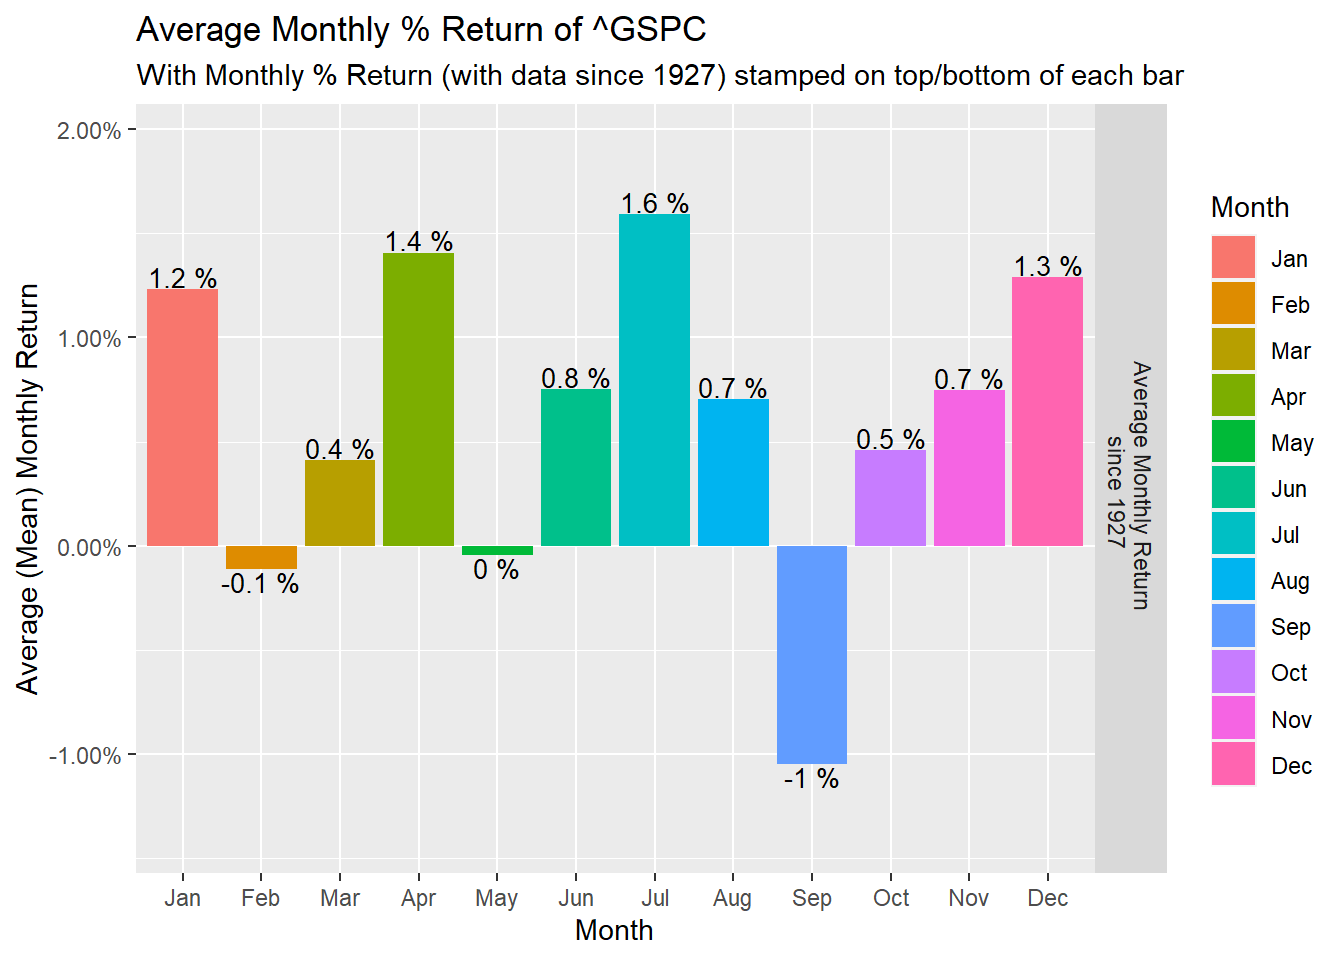
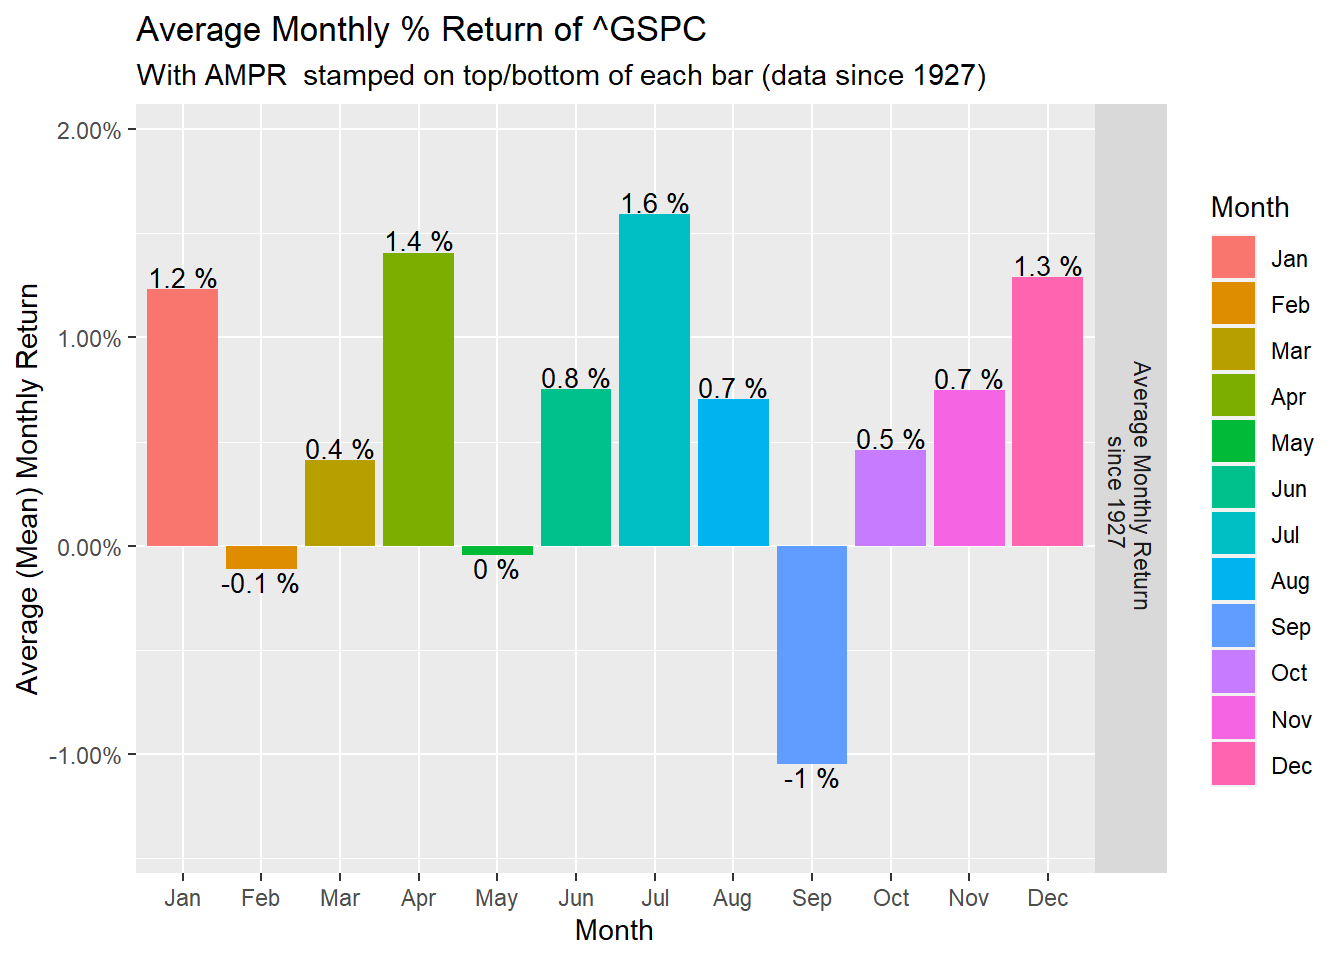
lkjlfferor

Changed region(s): [[0.1562, 0.0625, 0.875, 0.0938]]

diff --git a/content/post/2020-09-20-r-rmarkdown.html b/content/post/2020-09-20-r-rmarkdown.html
@@ -1,5 +1,5 @@
 ---
-title: "Periodic and Average Periodic Returns of Financial Portfolios using not R"
+title: "Periodic and Average Periodic Returns of Financial Portfolios using R"
 author: "Dawit Aberra"
 date: 2020-09-20
 categories: ["R"]
@@ -642,7 +642,7 @@ library(scales)
 g&lt;-ggplot(data=tb[(length(tb$Return)-12+1):length(tb$Return),], aes(x=Month, y=Return)) 
 g&lt;-g+geom_col(aes(fill = Month), position = &quot;dodge&quot;)
 g&lt;-g+facet_grid(rows = vars(Year))
-g&lt;-g+labs(title=paste(&quot;Average Monthly % Return of&quot;, symbolname),subtitle=&quot;With Monthly % Return (with data since 1927) stamped on top/bottom of each bar&quot;)
+g&lt;-g+labs(title=paste(&quot;Average Monthly % Return of&quot;, symbolname),subtitle=&quot;With AMPR  stamped on top/bottom of each bar (data since 1927)&quot;)
 g&lt;-g+geom_text(aes(label = paste(round(Return*100,1), &quot;%&quot;), vjust = ifelse(Return &gt;= 0, -0.1, 1.1)), size=3.5)  
 g&lt;-g+scale_y_continuous(&quot;Average (Mean) Monthly Return&quot;, labels = percent_format(),expand = expansion(mult = c(0.2, 0.2))) 
 g</code></pre>

diff --git a/public/2020/09/20/periodic-and-average-periodic-returns-of-financial-portfolios-using-r/index.html b/public/2020/09/20/periodic-and-average-periodic-returns-of-financial-portfolios-using-r/index.html
@@ -709,7 +709,7 @@ library(scales)
 g&lt;-ggplot(data=tb[(length(tb$Return)-12+1):length(tb$Return),], aes(x=Month, y=Return)) 
 g&lt;-g+geom_col(aes(fill = Month), position = &quot;dodge&quot;)
 g&lt;-g+facet_grid(rows = vars(Year))
-g&lt;-g+labs(title=paste(&quot;Average Monthly % Return of&quot;, symbolname),subtitle=&quot;With Monthly % Return (with data since 1927) stamped on top/bottom of each bar&quot;)
+g&lt;-g+labs(title=paste(&quot;Average Monthly % Return of&quot;, symbolname),subtitle=&quot;With AMPR  stamped on top/bottom of each bar (data since 1927)&quot;)
 g&lt;-g+geom_text(aes(label = paste(round(Return*100,1), &quot;%&quot;), vjust = ifelse(Return &gt;= 0, -0.1, 1.1)), size=3.5)  
 g&lt;-g+scale_y_continuous(&quot;Average (Mean) Monthly Return&quot;, labels = percent_format(),expand = expansion(mult = c(0.2, 0.2))) 
 g</code></pre>

diff --git a/public/categories/r/index.html b/public/categories/r/index.html
@@ -65,7 +65,7 @@
     <h2 class="archive-title">2020</h2>
     
     <article class="archive-item">
-      <a href="/2020/09/20/periodic-and-average-periodic-returns-of-financial-portfolios-using-not-r/" class="archive-item-link">Periodic and Average Periodic Returns of Financial Portfolios using not R</a>
+      <a href="/2020/09/20/periodic-and-average-periodic-returns-of-financial-portfolios-using-r/" class="archive-item-link">Periodic and Average Periodic Returns of Financial Portfolios using R</a>
       <span class="archive-item-date">
         2020-09-20
       </span>

diff --git a/public/index.html b/public/index.html
@@ -68,7 +68,7 @@
     <h2 class="archive-title">2020</h2>
     
     <article class="archive-item">
-      <a href="/2020/09/20/periodic-and-average-periodic-returns-of-financial-portfolios-using-not-r/" class="archive-item-link">Periodic and Average Periodic Returns of Financial Portfolios using not R</a>
+      <a href="/2020/09/20/periodic-and-average-periodic-returns-of-financial-portfolios-using-r/" class="archive-item-link">Periodic and Average Periodic Returns of Financial Portfolios using R</a>
       <span class="archive-item-date">
         2020-09-20
       </span>

diff --git a/public/post/index.html b/public/post/index.html
@@ -65,7 +65,7 @@
     <h2 class="archive-title">2020</h2>
     
     <article class="archive-item">
-      <a href="/2020/09/20/periodic-and-average-periodic-returns-of-financial-portfolios-using-not-r/" class="archive-item-link">Periodic and Average Periodic Returns of Financial Portfolios using not R</a>
+      <a href="/2020/09/20/periodic-and-average-periodic-returns-of-financial-portfolios-using-r/" class="archive-item-link">Periodic and Average Periodic Returns of Financial Portfolios using R</a>
       <span class="archive-item-date">
         2020-09-20
       </span>

diff --git a/public/tags/plot/index.html b/public/tags/plot/index.html
@@ -65,7 +65,7 @@
     <h2 class="archive-title">2020</h2>
     
     <article class="archive-item">
-      <a href="/2020/09/20/periodic-and-average-periodic-returns-of-financial-portfolios-using-not-r/" class="archive-item-link">Periodic and Average Periodic Returns of Financial Portfolios using not R</a>
+      <a href="/2020/09/20/periodic-and-average-periodic-returns-of-financial-portfolios-using-r/" class="archive-item-link">Periodic and Average Periodic Returns of Financial Portfolios using R</a>
       <span class="archive-item-date">
         2020-09-20
       </span>

diff --git a/public/tags/r-markdown/index.html b/public/tags/r-markdown/index.html
@@ -65,7 +65,7 @@
     <h2 class="archive-title">2020</h2>
     
     <article class="archive-item">
-      <a href="/2020/09/20/periodic-and-average-periodic-returns-of-financial-portfolios-using-not-r/" class="archive-item-link">Periodic and Average Periodic Returns of Financial Portfolios using not R</a>
+      <a href="/2020/09/20/periodic-and-average-periodic-returns-of-financial-portfolios-using-r/" class="archive-item-link">Periodic and Average Periodic Returns of Financial Portfolios using R</a>
       <span class="archive-item-date">
         2020-09-20
       </span>

diff --git a/public/tags/r/index.html b/public/tags/r/index.html
@@ -65,7 +65,7 @@
     <h2 class="archive-title">2020</h2>
     
     <article class="archive-item">
-      <a href="/2020/09/20/periodic-and-average-periodic-returns-of-financial-portfolios-using-not-r/" class="archive-item-link">Periodic and Average Periodic Returns of Financial Portfolios using not R</a>
+      <a href="/2020/09/20/periodic-and-average-periodic-returns-of-financial-portfolios-using-r/" class="archive-item-link">Periodic and Average Periodic Returns of Financial Portfolios using R</a>
       <span class="archive-item-date">
         2020-09-20
       </span>
